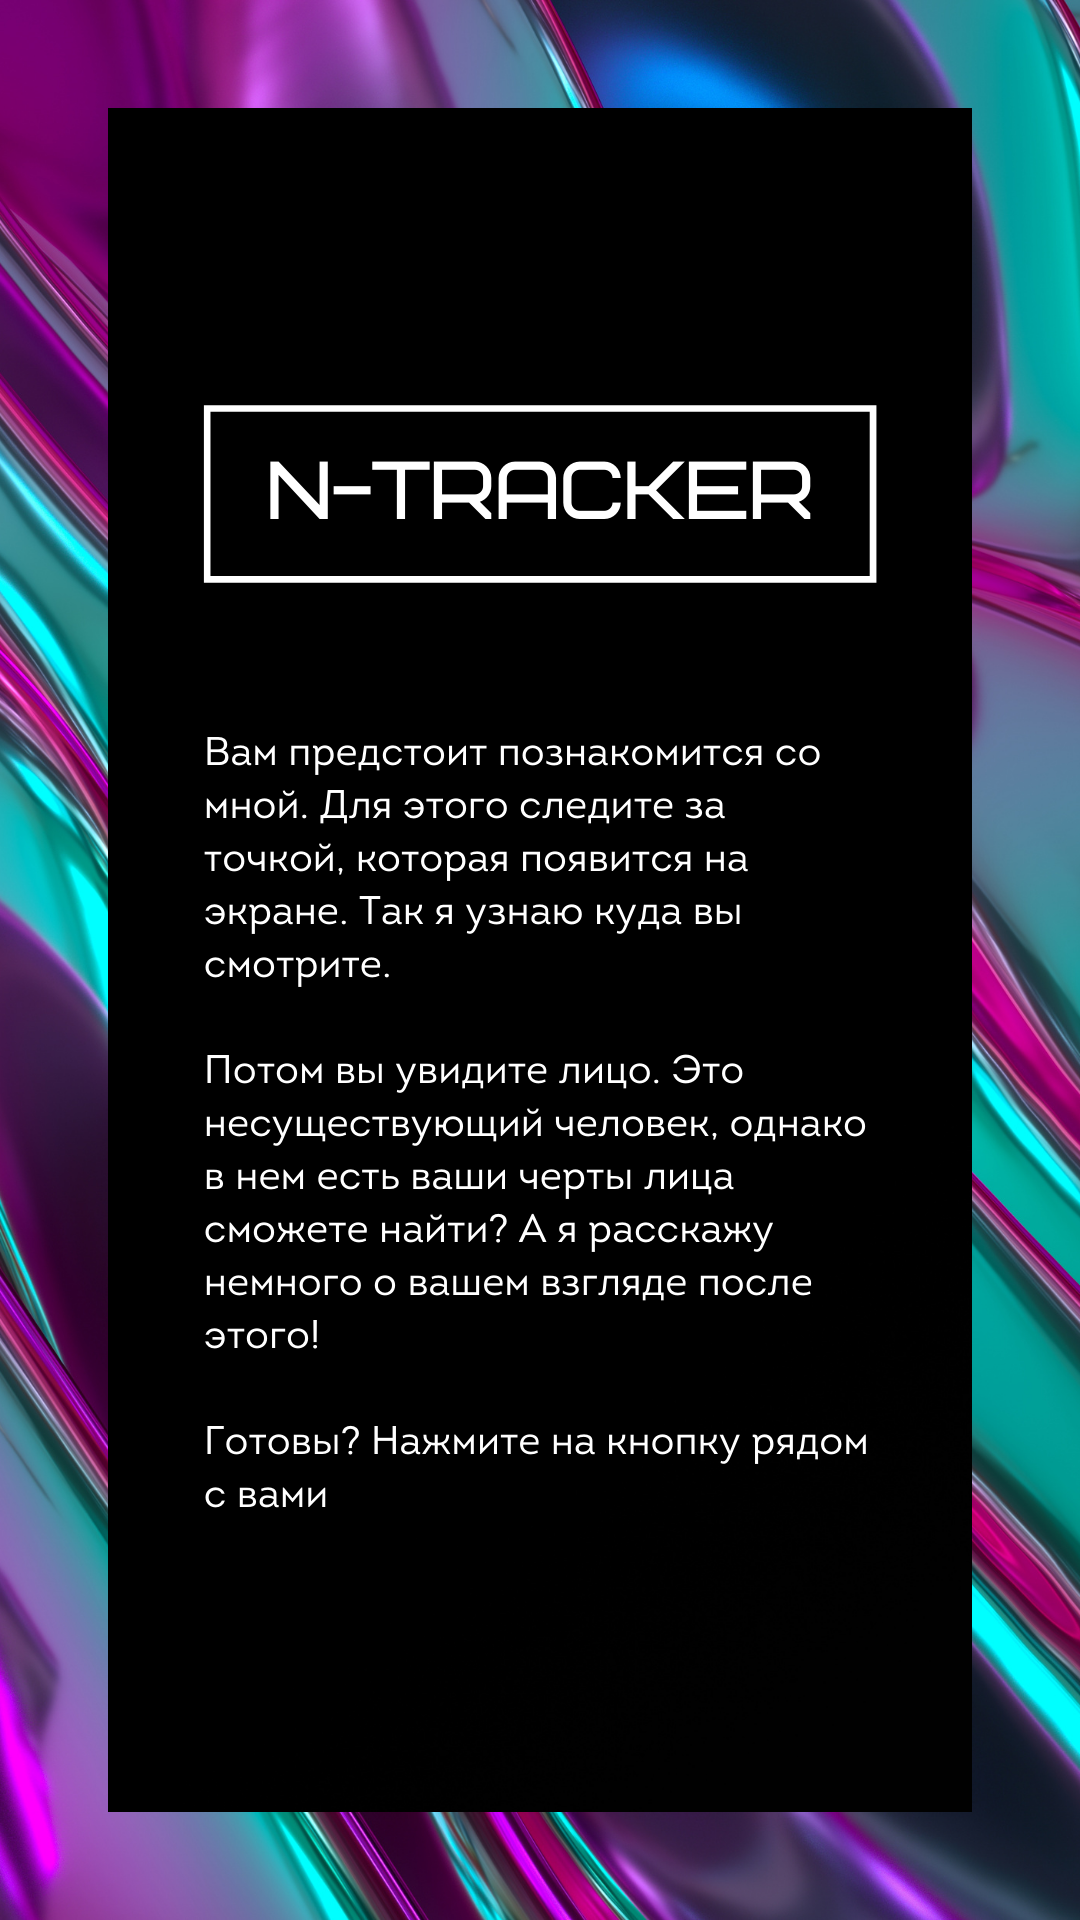
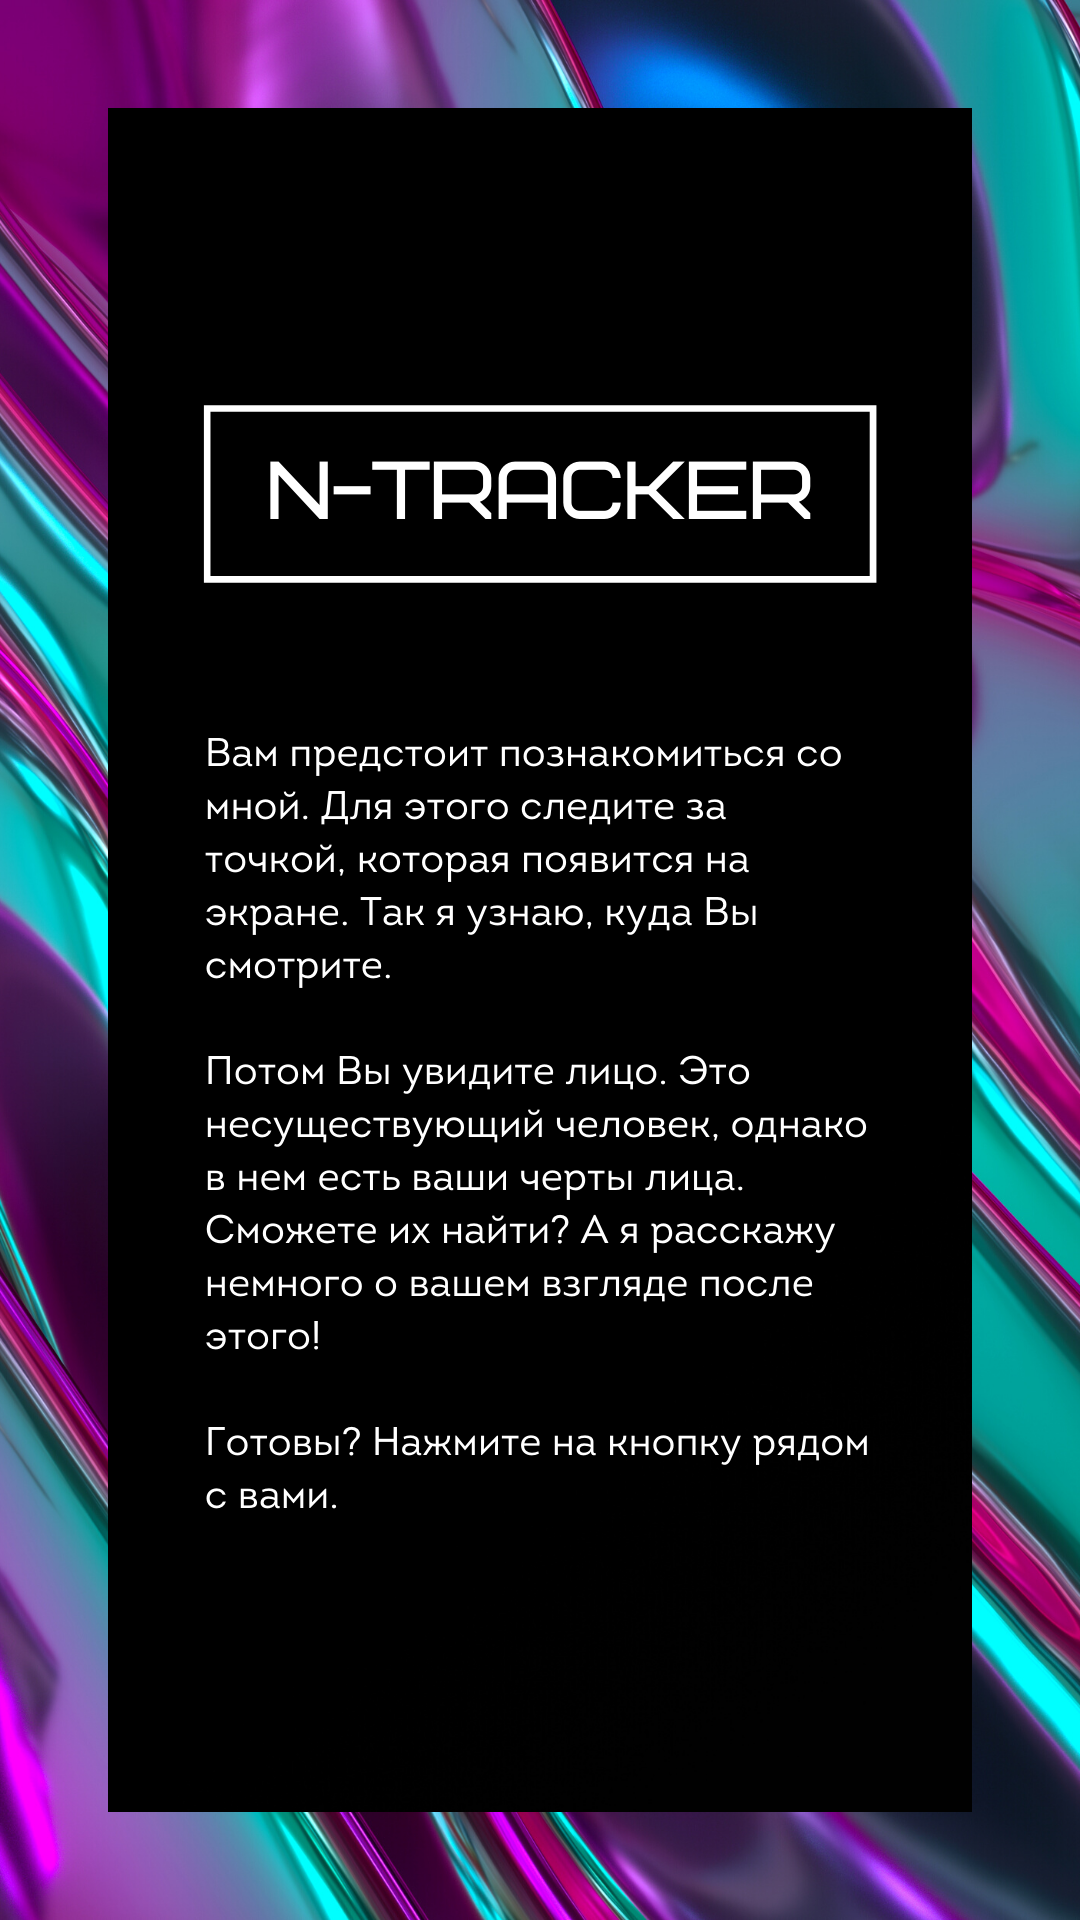
Media update

diff --git a/main.py b/main.py
@@ -33,7 +33,7 @@ CLASS_MESSAGES = {
     "ambient": [
         # 1
         "Сейчас ваше восприятие склонно к <strong>амбъентному</strong> типу. Что это значит? Взгляд настроен воспринимать лицо как "
-        "единое целое, а не составные части. Такой тип обеспечивает быстрое распознование базовых эмоций человека.",
+        "единое целое, а не составные части. Такой тип обеспечивает быстрое распознавание базовых эмоций человека.",
         # 2
         "Ваш способ восприятия лиц на данный момент — <strong>синтетический</strong>. Особенно чутко вы сейчас сможете распознать "
         "выражения грусти, гнева, удивления и радости. Именно этот способ присущ людям 70% времени."],
@@ -43,7 +43,7 @@ CLASS_MESSAGES = {
         "Ваш способ восприятия лиц на данный момент — <strong>аналитический</strong>. Особенно чутко вы сейчас сможете распознать "
         "выражения удивления и отвращения.  Этот способ присущ людям всего 30% времени.",
         # 2
-        "Сейчас ваше восприятие склонно к <strong>факальному</strong> типу. Что это значит? Взгляд настроен воспринимать лицо по "
+        "Сейчас ваше восприятие склонно к <strong>фокальному</strong> типу. Что это значит? Взгляд настроен воспринимать лицо по "
         "отдельным частям и только после этого составлять общую картинку. При взаимодействии с людьми у вас "
         "включается аналитический способ межличностного восприятия."
     ]
